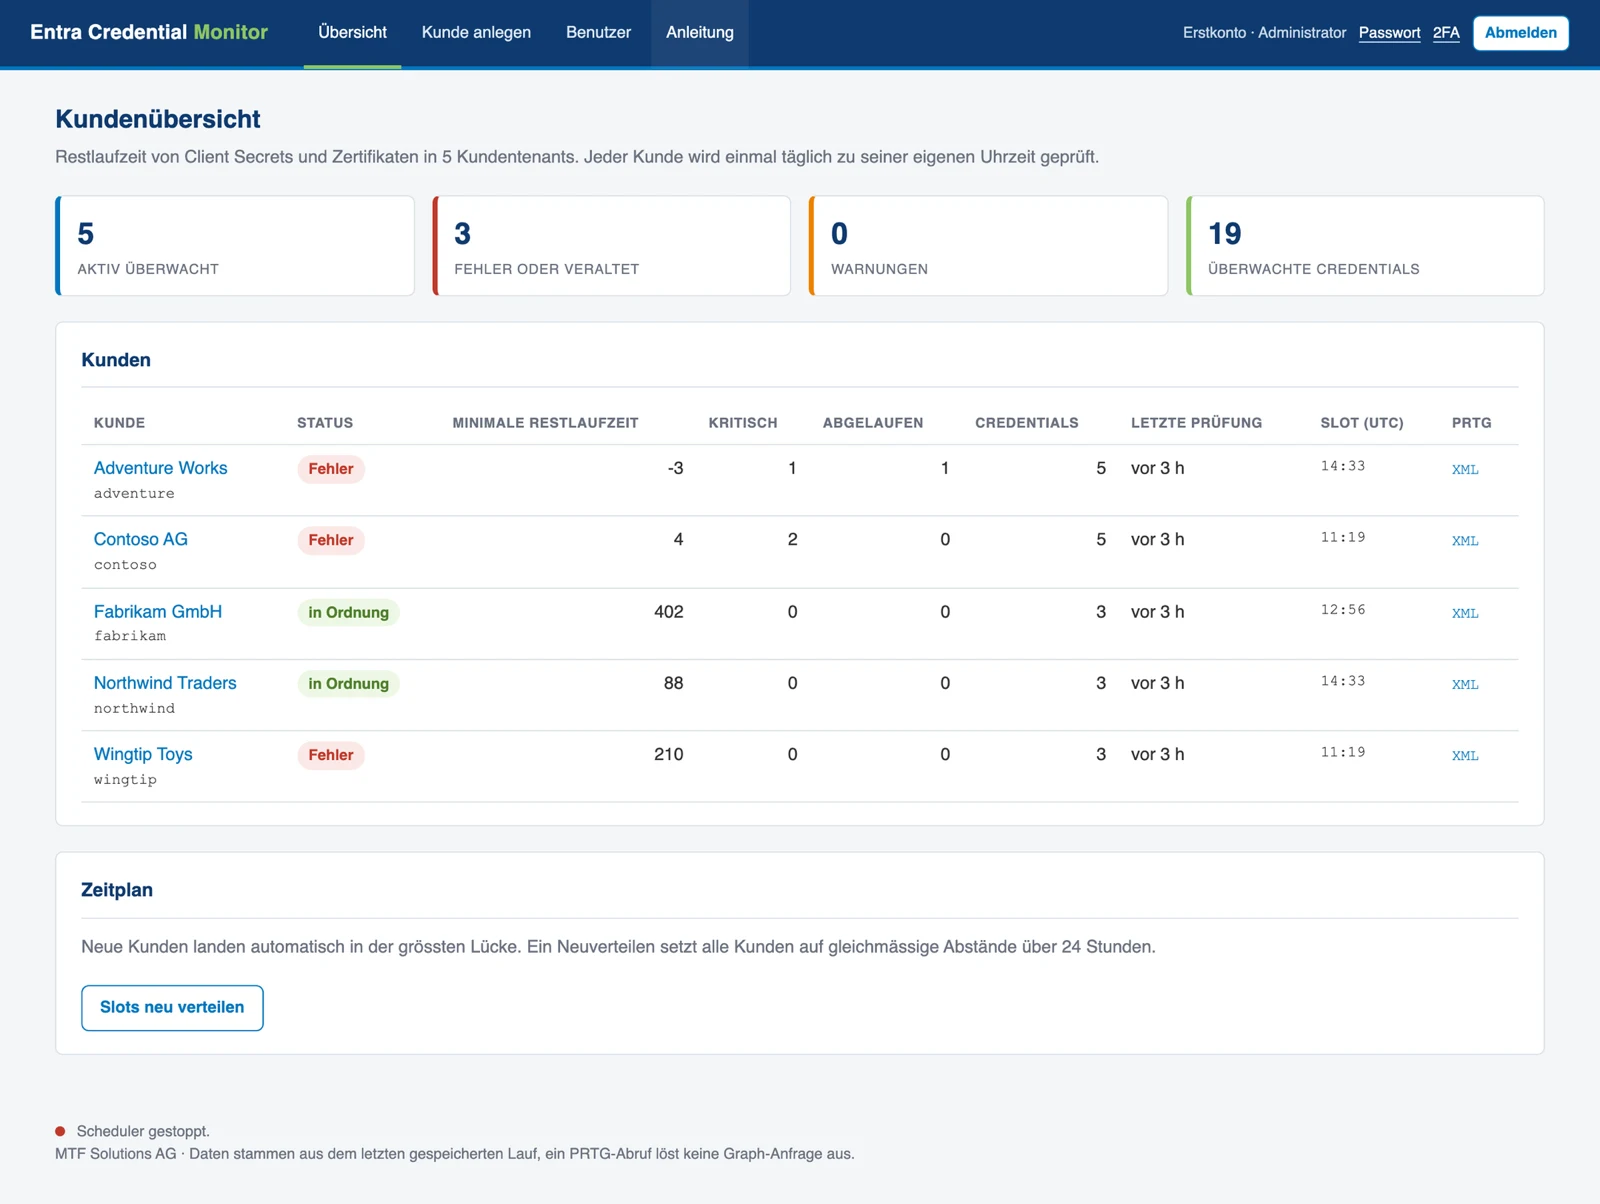
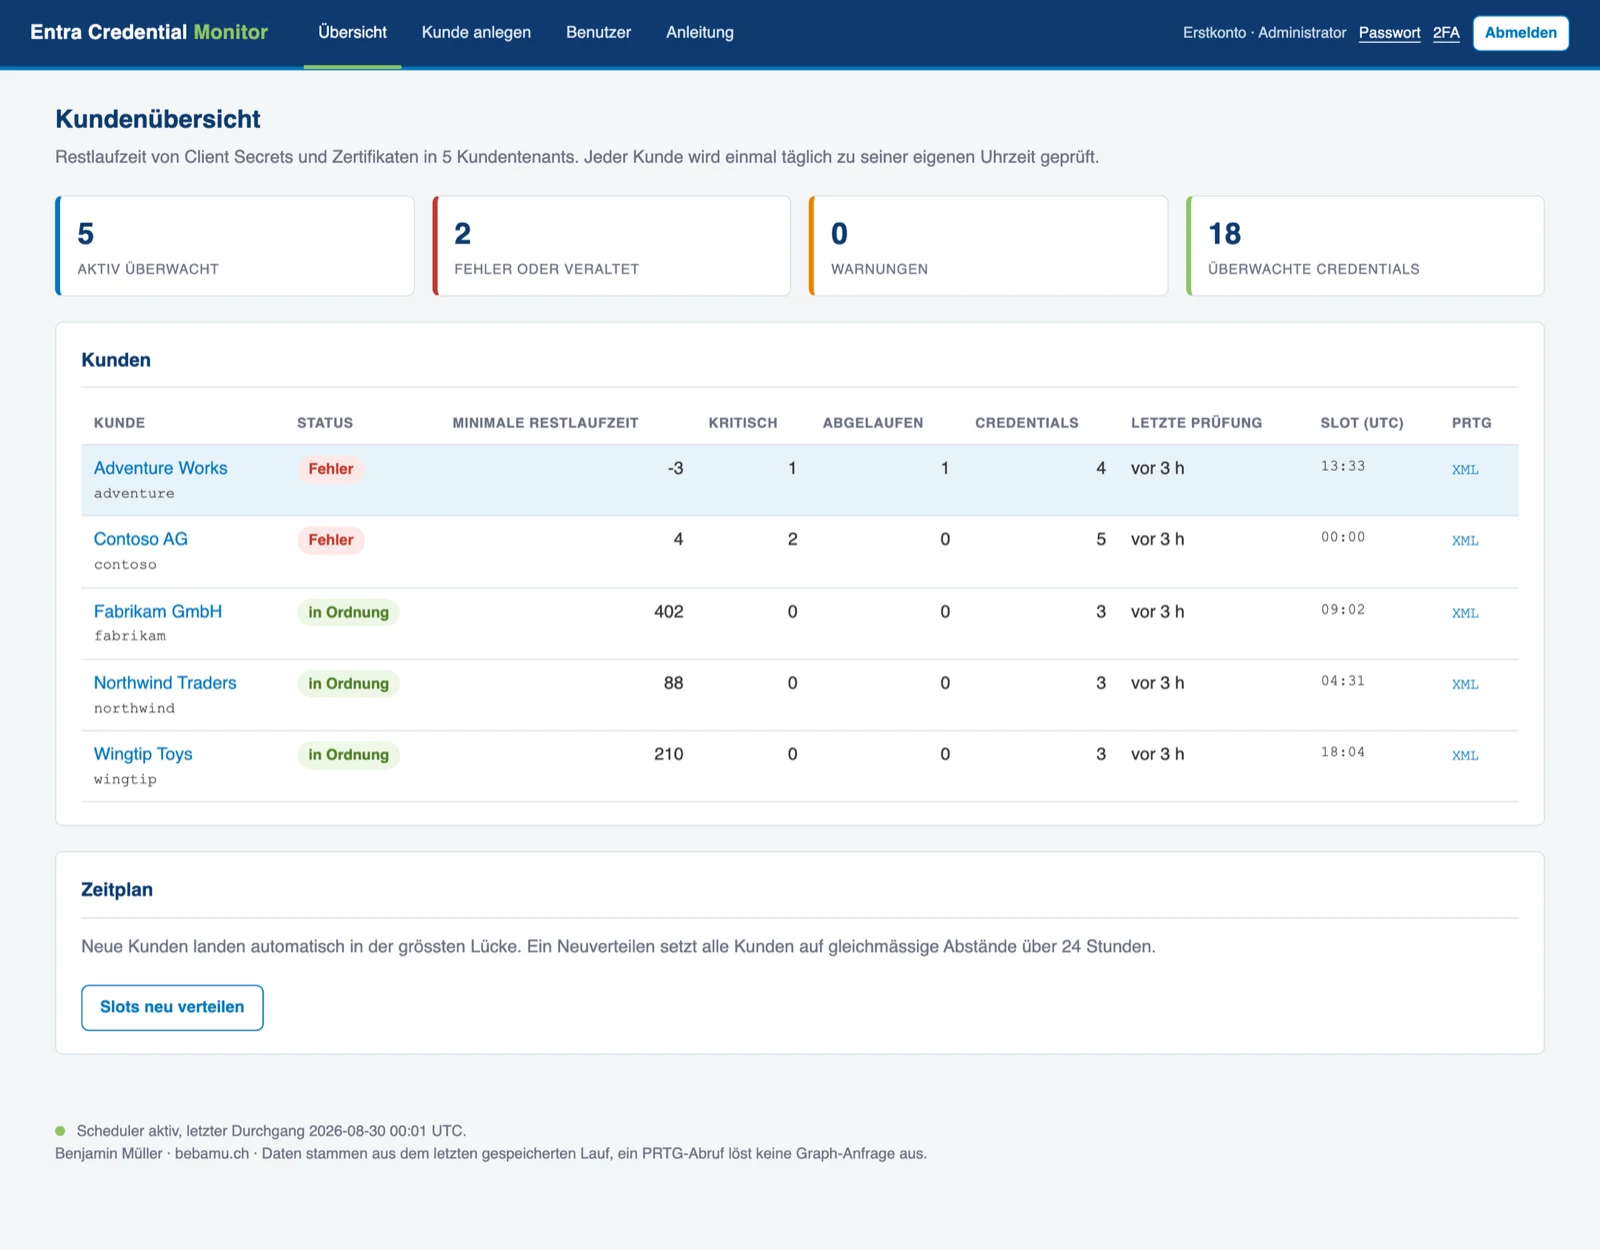
Retake the portal screenshot without the old instance name
The image was captured before the instance name was neutralised, so it still
carried a company footer onto a public page. Retaken against the demo instance,
which now also holds real credential records rather than only summary counts, so
the numbers in the screenshot agree with the rows behind them: 18 credentials
across five customers, two of which need attention.

The caption and the image height are updated to match.

diff --git a/docs/index.html b/docs/index.html
@@ -311,10 +311,10 @@
       </div>
     </div>
     <figure>
-      <img src="assets/portal.webp" width="1600" height="1160"
+      <img src="assets/portal.webp" width="1600" height="1250"
            alt="Portal dashboard listing five customer tenants with status, shortest remaining runtime, credential counts, time of last check and the daily scan slot.">
       <figcaption>
-        The portal view: five customers, three of them needing attention. A sensor
+        The portal view: five customers, two of them needing attention. A sensor
         poll answers from the stored scan and never calls Microsoft Graph.
       </figcaption>
     </figure>
